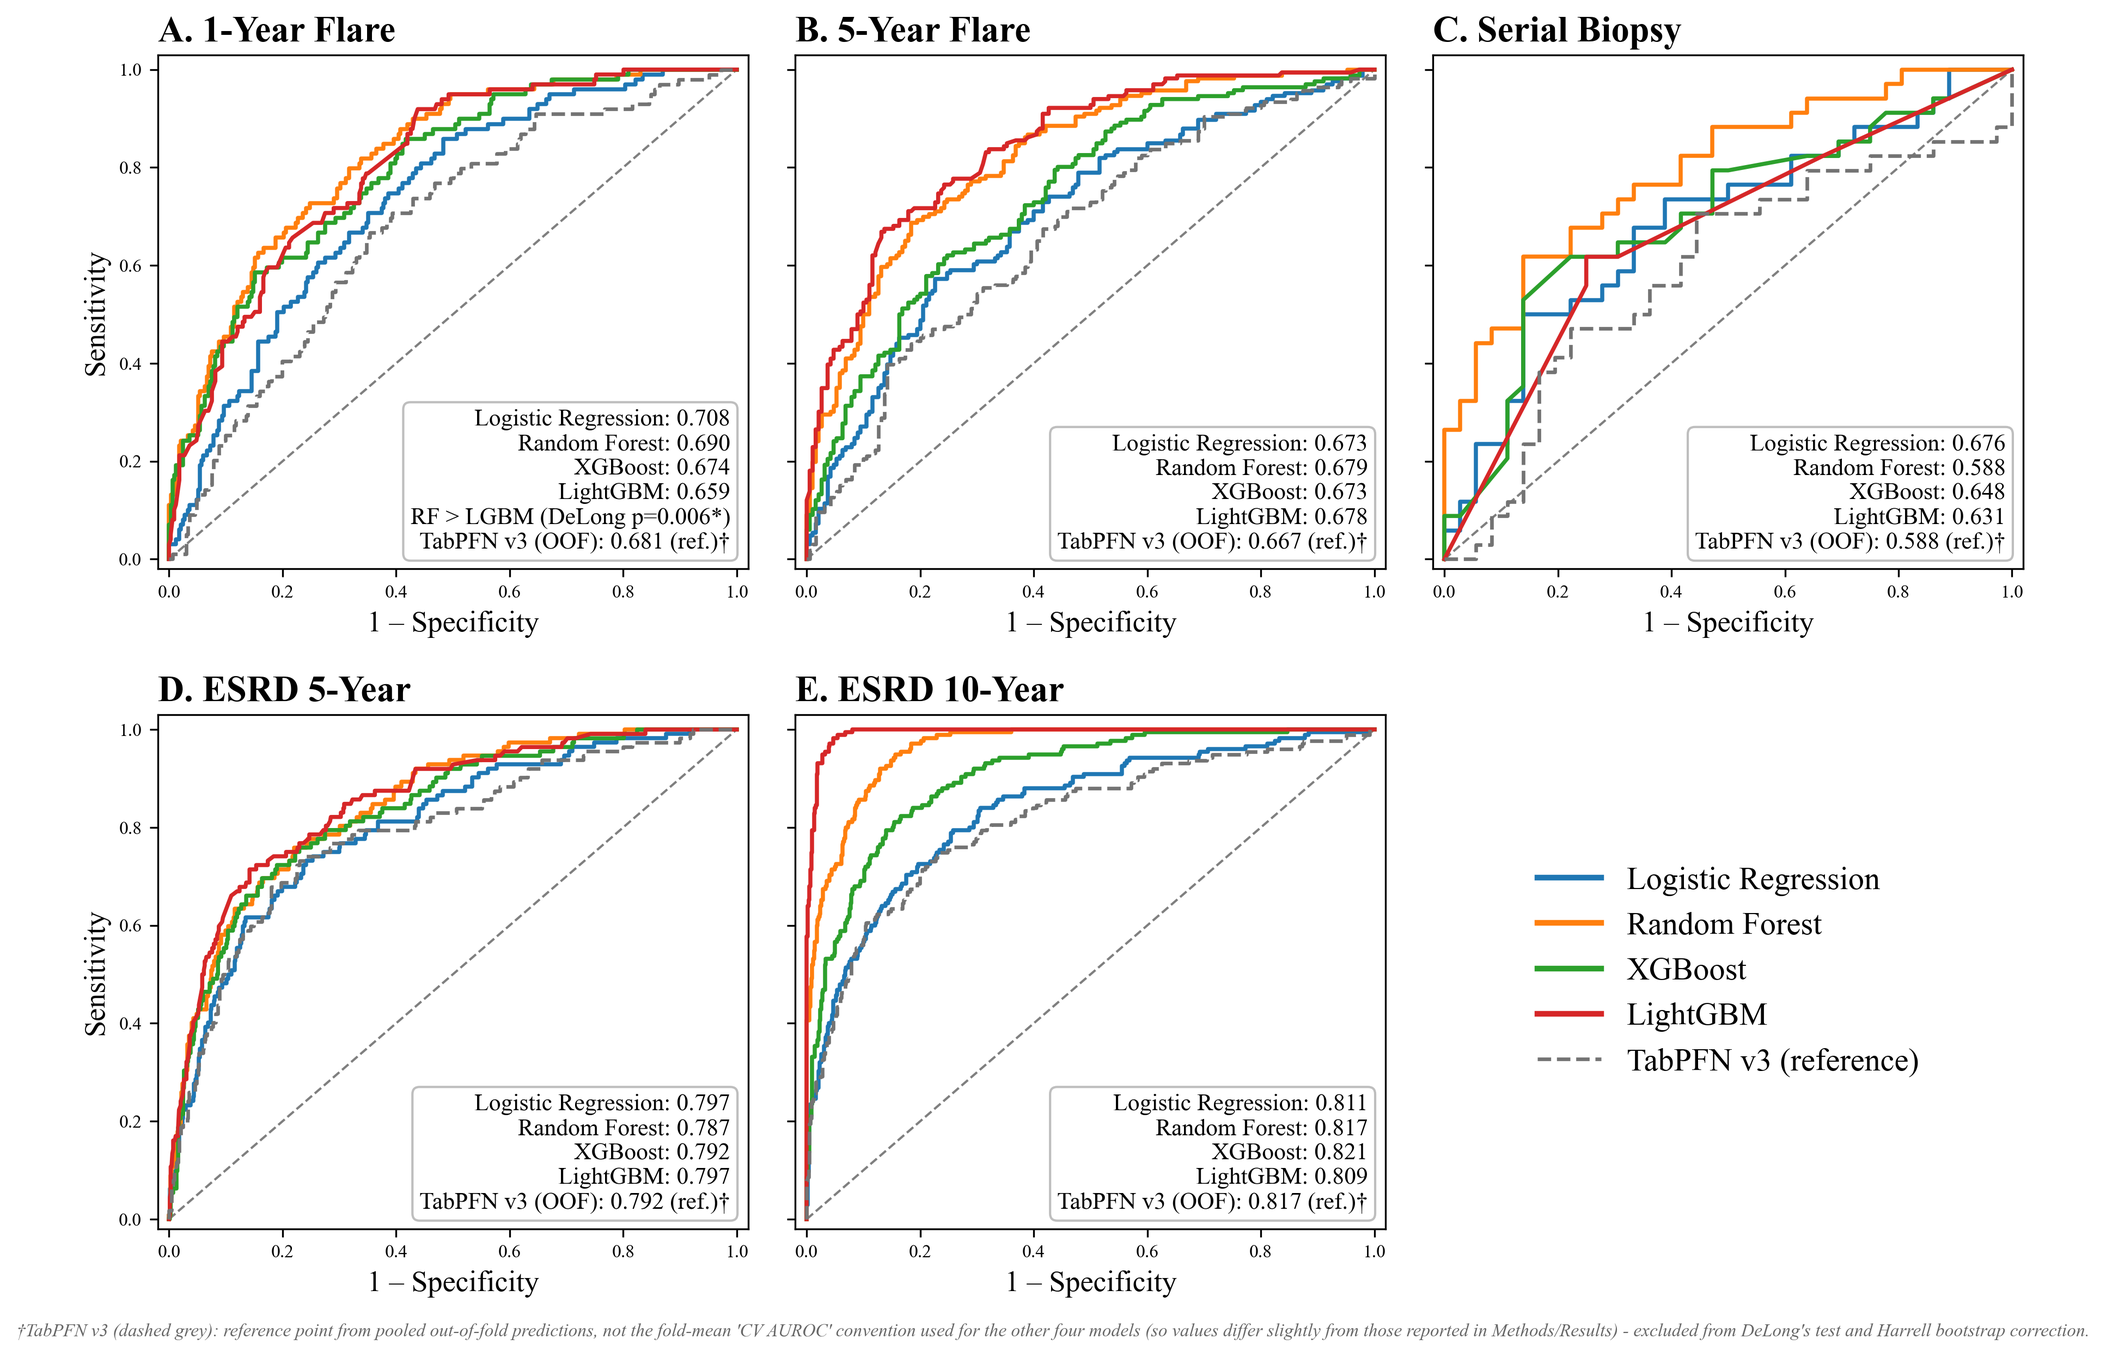
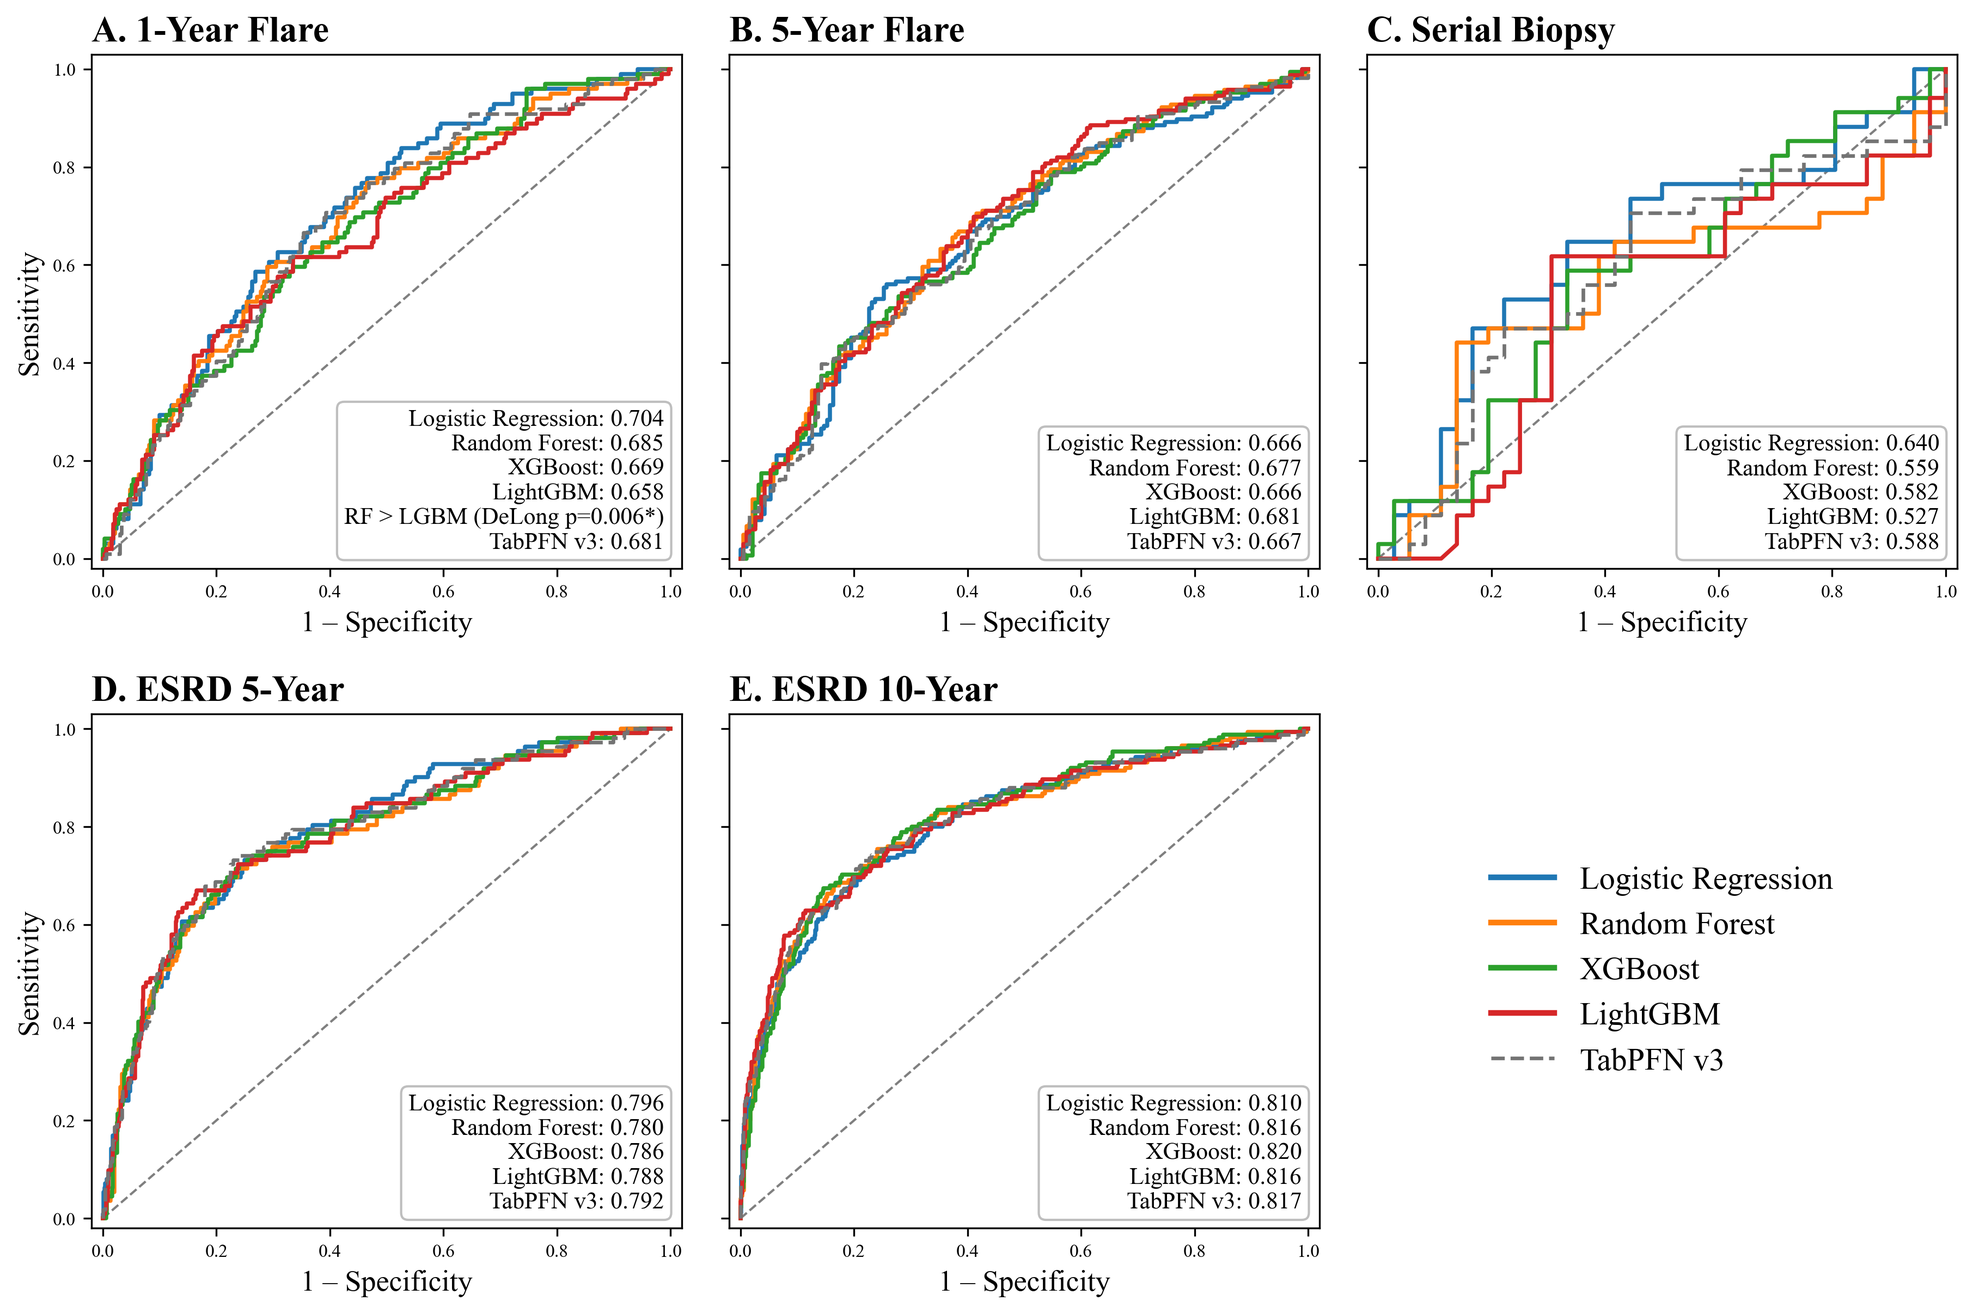
Major revision: consistent OOF AUROC convention, Wilson CI calibration bins, cleaner panels
ROC figure:
- Verified the serial-biopsy TabPFN 0.588 was NOT a bug: recomputed
  independently from raw source data. It's a coincidence between TabPFN's
  own OOF-pooled AUROC (0.5882) and Random Forest's fold-mean CV AUROC
  (also 0.588, a different statistic) - RF's own OOF-pooled AUROC is
  actually 0.5588. Verified with fresh roc_auc_score() calls on both
  raw prediction arrays.
- Root-caused why no printed number matched its curve: ROC curves for the
  4 main models were built from a full-data ("apparent") fit, not from
  pooled OOF predictions, while the annotated number was fold-mean CV
  AUROC - two different mismatches, not one. Fixed by rebuilding
  get_oof_and_roc() to compute the curve AND AUROC from the same pooled
  OOF predictions for all 5 models (TabPFN included), so every printed
  number now matches its own curve exactly.
- Removed the footnote, and the (ref.)/dagger markers - TabPFN now reads
  "TabPFN v3: 0.681" in the same format as the other four, distinguished
  only by its dashed grey line. DeLong significance annotation kept in
  Panel A.
- NB: this OOF-pooled convention differs slightly from the fold-mean 'CV
  AUROC' used in Methods/Results docs and Tables - documented in the
  module docstring.

Calibration figure:
- Removed the mismatched AUROC text annotation (was showing a
  discrimination metric on a calibration plot).
- Replaced sklearn's calibration_curve with manual equal-frequency
[…]

diff --git a/src/16_roc_calibration_plots.py b/src/16_roc_calibration_plots.py
@@ -8,9 +8,18 @@ same outer cross-validation protocol (same n_splits/n_repeats/random_state as
 the cohort's own modelling script) to reproduce identical out-of-fold (OOF)
 predictions, then plots two separate figures, each a 2x3 grid (5 cohort panels
 + 1 legend panel):
-  - ROC curves (model fit on full data; AUROC annotated top-left per panel)
-  - Calibration curves (OOF probability decile vs. observed event rate,
-    45-degree reference line)
+  - ROC curves, built from pooled OOF predictions (not a full-data-fit) so
+    the annotated AUROC always matches what's actually drawn
+  - Calibration curves: equal-frequency (quantile) binned OOF probability vs.
+    observed event rate, with Wilson 95% CI error bars per bin (5 bins for
+    1yr/5yr/ESRD, 3 for serial biopsy - n=70 is too small for 5)
+
+All five models (the four main classifiers + TabPFN v3, where available)
+use the same OOF-pooled AUROC convention on this figure, so every printed
+number matches its own curve. This differs slightly from the fold-mean "CV
+AUROC" reported in the Methods/Results docs and Tables (a different,
+also-valid aggregation of the same cross-validation) - the two are not
+meant to be read as identical.
 
 Uses the project's standard model colour scheme (src/1_year/06_modelling_1yr.py,
 src/5_year/05_modelling_5yr.py, src/5_year/11_serial_modelling_5yr.py):
@@ -34,11 +43,43 @@ from sklearn.preprocessing import StandardScaler
 from sklearn.linear_model import LogisticRegression
 from sklearn.ensemble import RandomForestClassifier
 from sklearn.model_selection import RepeatedStratifiedKFold
-from sklearn.calibration import calibration_curve
 from sklearn.metrics import roc_auc_score, roc_curve
 from sklearn.pipeline import Pipeline
 from xgboost import XGBClassifier
 from lightgbm import LGBMClassifier
+
+
+def wilson_ci(k, n, z=1.96):
+    """Wilson score interval for a binomial proportion k/n."""
+    if n == 0:
+        return (np.nan, np.nan)
+    phat = k / n
+    denom = 1 + z**2 / n
+    center = (phat + z**2 / (2 * n)) / denom
+    margin = (z * np.sqrt(phat * (1 - phat) / n + z**2 / (4 * n**2))) / denom
+    return (max(0.0, center - margin), min(1.0, center + margin))
+
+
+def calibration_bins_with_ci(y_true, y_prob, n_bins):
+    """Equal-frequency (quantile) binning - each bin holds a comparable
+    number of patients, unlike equal-width binning. Returns per-bin mean
+    predicted probability, observed event rate, and Wilson 95% CI bounds."""
+    y_true = np.asarray(y_true)
+    y_prob = np.asarray(y_prob)
+    order = np.argsort(y_prob)
+    yt_sorted, yp_sorted = y_true[order], y_prob[order]
+    mean_pred, obs_rate, ci_lo, ci_hi = [], [], [], []
+    for idx in np.array_split(np.arange(len(y_prob)), n_bins):
+        if len(idx) == 0:
+            continue
+        yt, yp = yt_sorted[idx], yp_sorted[idx]
+        n, k = len(idx), yt.sum()
+        mean_pred.append(yp.mean())
+        obs_rate.append(k / n)
+        lo, hi = wilson_ci(k, n)
+        ci_lo.append(lo)
+        ci_hi.append(hi)
+    return np.array(mean_pred), np.array(obs_rate), np.array(ci_lo), np.array(ci_hi)
 
 BASE = "/Users/elizabetharmstrong/Library/CloudStorage/OneDrive-ImperialCollegeLondon/Lupus Project"
 PROC = f"{BASE}/Data/Processed"
@@ -93,27 +134,25 @@ def build_models(best_params, spw):
 
 
 def get_oof_and_roc(X, y, models, n_splits, n_repeats):
-    """Reruns the cohort's outer CV to get OOF probabilities (for calibration)
-    and fits each model on the full data (for the ROC curve, matching the
-    project's existing convention of drawing ROC on the full-data fit while
-    reporting CV-mean AUROC as the annotated value)."""
+    """Reruns the cohort's outer CV to get pooled out-of-fold probabilities,
+    then builds the ROC curve and AUROC directly from those OOF predictions
+    (not a full-data fit) - so the plotted curve and the annotated AUROC
+    are always the same underlying computation."""
     CV = RepeatedStratifiedKFold(n_splits=n_splits, n_repeats=n_repeats, random_state=42)
     results = {}
     for name, pipe in models.items():
-        fold_aurocs = []
         oof_probs, oof_counts = np.zeros(len(y)), np.zeros(len(y))
         for tr, te in CV.split(X, y):
             pipe.fit(X.iloc[tr], y.iloc[tr])
             probs = pipe.predict_proba(X.iloc[te])[:, 1]
-            fold_aurocs.append(roc_auc_score(y.iloc[te], probs))
             oof_probs[te] += probs
             oof_counts[te] += 1
         oof_probs = oof_probs / np.where(oof_counts > 0, oof_counts, 1)
 
-        pipe.fit(X, y)
-        fpr, tpr, _ = roc_curve(y, pipe.predict_proba(X)[:, 1])
+        fpr, tpr, _ = roc_curve(y, oof_probs)
+        auroc = roc_auc_score(y, oof_probs)
 
-        results[name] = {"cv_auroc": np.mean(fold_aurocs), "oof": oof_probs, "fpr": fpr, "tpr": tpr}
+        results[name] = {"auroc": auroc, "oof": oof_probs, "fpr": fpr, "tpr": tpr}
     return results
 
 
@@ -157,7 +196,7 @@ cohorts.append({
     "label": "1-Year Flare",
     "X": df.drop(columns=["flare_1yr"]), "y": df["flare_1yr"].astype(int),
     "best_params": load_json_params(f"{OUT}/1yr_best_params.json"),
-    "spw": 3.34, "n_splits": 10, "n_repeats": 5, "n_bins": 10,
+    "spw": 3.34, "n_splits": 10, "n_repeats": 5, "n_bins": 5,
 })
 
 # 5-Year flare
@@ -172,7 +211,7 @@ cohorts.append({
     "label": "5-Year Flare",
     "X": df.drop(columns=["flare_5yr"]), "y": df["flare_5yr"].astype(int),
     "best_params": load_json_params(f"{OUT}/5yr_best_params.json"),
-    "spw": round(190 / 166, 2), "n_splits": 10, "n_repeats": 5, "n_bins": 10,
+    "spw": round(190 / 166, 2), "n_splits": 10, "n_repeats": 5, "n_bins": 5,
 })
 
 # Serial biopsy
@@ -181,7 +220,7 @@ cohorts.append({
     "label": "Serial Biopsy",
     "X": df.drop(columns=["flare_5yr"]), "y": df["flare_5yr"].astype(int),
     "best_params": load_xlsx_params(f"{OUT}/5yr_serial_model_results.xlsx"),
-    "spw": round(36 / 34, 2), "n_splits": 5, "n_repeats": 5, "n_bins": 5,
+    "spw": round(36 / 34, 2), "n_splits": 5, "n_repeats": 5, "n_bins": 3,
 })
 
 # ESRD 5-Year
@@ -191,7 +230,7 @@ cohorts.append({
     "label": "ESRD 5-Year",
     "X": df.drop(columns=["esrd_5yr"]), "y": y,
     "best_params": load_json_params(f"{OUT}/esrd/esrd_best_params.json", key="5yr"),
-    "spw": round((y == 0).sum() / (y == 1).sum(), 2), "n_splits": 10, "n_repeats": 5, "n_bins": 10,
+    "spw": round((y == 0).sum() / (y == 1).sum(), 2), "n_splits": 10, "n_repeats": 5, "n_bins": 5,
 })
 
 # ESRD 10-Year
@@ -201,7 +240,7 @@ cohorts.append({
     "label": "ESRD 10-Year",
     "X": df.drop(columns=["esrd_10yr"]), "y": y,
     "best_params": load_json_params(f"{OUT}/esrd/esrd_best_params.json", key="10yr"),
-    "spw": round((y == 0).sum() / (y == 1).sum(), 2), "n_splits": 10, "n_repeats": 5, "n_bins": 10,
+    "spw": round((y == 0).sum() / (y == 1).sum(), 2), "n_splits": 10, "n_repeats": 5, "n_bins": 5,
 })
 
 # --- Compute ---
@@ -215,7 +254,7 @@ for c in cohorts:
     models = build_models(c["best_params"], c["spw"])
     res = get_oof_and_roc(c["X"], c["y"], models, c["n_splits"], c["n_repeats"])
     for name in models:
-        print(f"    {name:<20} CV AUROC={res[name]['cv_auroc']:.3f}")
+        print(f"    {name:<20} OOF AUROC={res[name]['auroc']:.3f}")
     all_results.append(res)
 
     y_arr = c["y"].values
@@ -223,15 +262,13 @@ for c in cohorts:
         r = res[name]
         for fpr_v, tpr_v in zip(r["fpr"], r["tpr"]):
             roc_rows.append({"Cohort": c["label"], "Model": name, "FPR": fpr_v, "TPR": tpr_v,
-                              "CV_AUROC": round(r["cv_auroc"], 4)})
+                              "OOF_AUROC": round(r["auroc"], 4)})
 
-        try:
-            frac_pos, mean_pred = calibration_curve(c["y"], r["oof"], n_bins=c["n_bins"], strategy="quantile")
-        except ValueError:
-            frac_pos, mean_pred = calibration_curve(c["y"], r["oof"], n_bins=max(3, c["n_bins"] // 2), strategy="quantile")
-        for mp, fp in zip(mean_pred, frac_pos):
+        mean_pred, obs_rate, ci_lo, ci_hi = calibration_bins_with_ci(c["y"], r["oof"], c["n_bins"])
+        for mp, orate, lo, hi in zip(mean_pred, obs_rate, ci_lo, ci_hi):
             cal_rows.append({"Cohort": c["label"], "Model": name,
-                              "Mean_Predicted_Probability": mp, "Observed_Event_Rate": fp})
+                              "Mean_Predicted_Probability": mp, "Observed_Event_Rate": orate,
+                              "Wilson_CI_Lower": lo, "Wilson_CI_Upper": hi})
 
         for idx, (true_label, prob) in enumerate(zip(y_arr, r["oof"])):
             oof_rows.append({"Cohort": c["label"], "Model": name, "Sample_Index": idx,
@@ -243,16 +280,16 @@ with pd.ExcelWriter(curve_data_path, engine="openpyxl") as writer:
     pd.DataFrame(cal_rows).to_excel(writer, sheet_name="Calibration_curves", index=False)
     pd.DataFrame(oof_rows).to_excel(writer, sheet_name="OOF_predictions", index=False)
 print(f"\nSaved: {curve_data_path}")
-print("  ROC_curves: full-data-fit FPR/TPR points per model per cohort (matches plotted curves)")
-print("  Calibration_curves: decile-binned mean predicted prob vs observed event rate")
+print("  ROC_curves: pooled-OOF FPR/TPR points per model per cohort (matches plotted curves)")
+print("  Calibration_curves: equal-frequency binned mean predicted prob vs observed event rate, with Wilson 95% CI")
 print("  OOF_predictions: raw out-of-fold probability + true label per sample, per model per cohort")
 print("  (for full flexibility if you want to build your own curves/thresholds)")
 
 # TabPFN v3: reference curves, wherever raw OOF predictions were retained
 # (src/16_tabpfn_v3_benchmark.py). Excluded from DeLong's test and Harrell
 # bootstrap (see Methods Section 10.1), so it is drawn distinctly (dashed,
-# grey) rather than as a normal competitor, with its own legend entry
-# labelled as a reference rather than a fifth model in the comparison.
+# grey) rather than as a normal competitor. Uses the same pooled-OOF AUROC
+# convention as the other four models on this figure.
 TABPFN_COLOR = "0.45"
 TABPFN_COHORT_KEY = {
     "1-Year Flare": "1yr_flare", "5-Year Flare": "5yr_flare", "Serial Biopsy": "serial_biopsy",
@@ -270,13 +307,11 @@ try:
         fpr_t, tpr_t, _ = roc_curve(y_true, probs)
         auroc_t = roc_auc_score(y_true, probs)
         n_bins = next(c["n_bins"] for c in cohorts if c["label"] == label)
-        try:
-            frac_pos_t, mean_pred_t = calibration_curve(y_true, probs, n_bins=n_bins, strategy="quantile")
-        except ValueError:
-            frac_pos_t, mean_pred_t = calibration_curve(y_true, probs, n_bins=max(3, n_bins // 2), strategy="quantile")
+        mean_pred_t, frac_pos_t, ci_lo_t, ci_hi_t = calibration_bins_with_ci(y_true, probs, n_bins)
         tabpfn_curves[label] = {"fpr": fpr_t, "tpr": tpr_t, "auroc": auroc_t,
-                                 "mean_pred": mean_pred_t, "frac_pos": frac_pos_t}
-        print(f"\n[TabPFN v3 reference] {label}: AUROC={auroc_t:.3f} (OOF, from live run)")
+                                 "mean_pred": mean_pred_t, "frac_pos": frac_pos_t,
+                                 "ci_lo": ci_lo_t, "ci_hi": ci_hi_t}
+        print(f"\n[TabPFN v3 reference] {label}: OOF AUROC={auroc_t:.3f}")
 except FileNotFoundError:
     print("\n[TabPFN v3 reference] outputs/tabpfn_v3_oof_predictions.xlsx not found - skipping.")
 
@@ -300,7 +335,7 @@ for i, (c, res) in enumerate(zip(cohorts, all_results)):
     for name in MODEL_ORDER:
         r = res[name]
         ax.plot(r["fpr"], r["tpr"], color=MODEL_COLORS[name], lw=1.8)
-        annot_lines.append(f"{name}: {r['cv_auroc']:.3f}")
+        annot_lines.append(f"{name}: {r['auroc']:.3f}")
 
     # The only significant DeLong pairwise result across all 5 cohorts (src/13_delong_test.py):
     # Random Forest significantly outperformed LightGBM here (p=0.001 raw, p=0.006 Holm-corrected).
@@ -310,7 +345,7 @@ for i, (c, res) in enumerate(zip(cohorts, all_results)):
     tp = tabpfn_curves.get(c["label"])
     if tp is not None:
         ax.plot(tp["fpr"], tp["tpr"], color=TABPFN_COLOR, lw=1.6, linestyle="--")
-        annot_lines.append(f"TabPFN v3 (OOF): {tp['auroc']:.3f} (ref.)†")
+        annot_lines.append(f"TabPFN v3: {tp['auroc']:.3f}")
 
     ax.text(0.97, 0.03, "\n".join(annot_lines), transform=ax.transAxes,
             fontsize=10.5, va="bottom", ha="right",
@@ -334,15 +369,8 @@ legend_handles = [plt.Line2D([0], [0], color=MODEL_COLORS[name], lw=2.5) for nam
 legend_labels = list(MODEL_ORDER)
 if tabpfn_curves:
     legend_handles.append(plt.Line2D([0], [0], color=TABPFN_COLOR, lw=1.6, linestyle="--"))
-    legend_labels.append("TabPFN v3 (reference)")
+    legend_labels.append("TabPFN v3")
 legend_ax.legend(legend_handles, legend_labels, loc="center", fontsize=14, frameon=False)
-
-if tabpfn_curves:
-    fig_roc.text(0.5, -0.02, "†TabPFN v3 (dashed grey): reference point from pooled out-of-fold "
-                 "predictions, not the fold-mean 'CV AUROC' convention used for the other four models "
-                 "(so values differ slightly from those reported in Methods/Results) - excluded from "
-                 "DeLong's test and Harrell bootstrap correction.",
-                 ha="center", fontsize=8, style="italic", color="0.4")
 
 fig_roc.savefig(f"{FIG_DIR}/roc_all_cohorts.png", dpi=300, bbox_inches="tight")
 plt.close(fig_roc)
@@ -359,24 +387,26 @@ for i, (c, res) in enumerate(zip(cohorts, all_results)):
 
     for name in MODEL_ORDER:
         oof = res[name]["oof"]
-        try:
-            frac_pos, mean_pred = calibration_curve(c["y"], oof, n_bins=c["n_bins"], strategy="quantile")
-        except ValueError:
-            frac_pos, mean_pred = calibration_curve(c["y"], oof, n_bins=max(3, c["n_bins"] // 2), strategy="quantile")
-        ax.plot(mean_pred, frac_pos, "o-", color=MODEL_COLORS[name], lw=1.8, markersize=4)
+        mean_pred, obs_rate, ci_lo, ci_hi = calibration_bins_with_ci(c["y"], oof, c["n_bins"])
+        yerr = [obs_rate - ci_lo, ci_hi - obs_rate]
+        ax.errorbar(mean_pred, obs_rate, yerr=yerr, fmt="o-", color=MODEL_COLORS[name],
+                    lw=1.8, markersize=4, capsize=3, elinewidth=1, ecolor=MODEL_COLORS[name])
 
     tp = tabpfn_curves.get(c["label"])
     if tp is not None:
-        ax.plot(tp["mean_pred"], tp["frac_pos"], "^--", color=TABPFN_COLOR, lw=1.6, markersize=5)
-        ax.text(0.03, 0.97, f"TabPFN v3 (OOF): {tp['auroc']:.3f} (ref.)†", transform=ax.transAxes,
-                fontsize=9, va="top", ha="left", color=TABPFN_COLOR, style="italic")
+        yerr_t = [tp["frac_pos"] - tp["ci_lo"], tp["ci_hi"] - tp["frac_pos"]]
+        ax.errorbar(tp["mean_pred"], tp["frac_pos"], yerr=yerr_t, fmt="^--", color=TABPFN_COLOR,
+                    lw=1.6, markersize=5, capsize=3, elinewidth=1, ecolor=TABPFN_COLOR)
+        # No text annotation here (unlike the ROC panel): AUROC is a
+        # discrimination metric, not a calibration one, so it doesn't
+        # belong on this plot. The curve + shared legend entry are enough,
+        # consistent with how the other four models are shown here.
 
     ax.set_xlim([0, 1]); ax.set_ylim([0, 1])
     ax.set_title(f"{PANEL_LETTERS[i]}. {c['label']}", fontsize=16, fontweight="bold", loc="left")
     ax.set_xlabel("Mean Predicted Probability", fontsize=13)
-    if col == 0:
-        ax.set_ylabel("Observed Event Rate", fontsize=13)
-    else:
+    ax.set_ylabel("Observed Event Rate", fontsize=13)
+    if col != 0:
         ax.set_yticklabels([])
     ax.tick_params(labelsize=8)
 
@@ -389,15 +419,8 @@ legend_handles = [plt.Line2D([0], [0], color=MODEL_COLORS[name], lw=2.5, marker=
 legend_labels = list(MODEL_ORDER)
 if tabpfn_curves:
     legend_handles.append(plt.Line2D([0], [0], color=TABPFN_COLOR, lw=1.6, linestyle="--", marker="^"))
-    legend_labels.append("TabPFN v3 (reference)")
+    legend_labels.append("TabPFN v3")
 legend_ax.legend(legend_handles, legend_labels, loc="center", fontsize=14, frameon=False)
-
-if tabpfn_curves:
-    fig_cal.text(0.5, -0.02, "†TabPFN v3 (dashed grey): reference point from pooled out-of-fold "
-                 "predictions, not the fold-mean 'CV AUROC' convention used for the other four models "
-                 "(so values differ slightly from those reported in Methods/Results) - excluded from "
-                 "DeLong's test and Harrell bootstrap correction.",
-                 ha="center", fontsize=8, style="italic", color="0.4")
 
 fig_cal.savefig(f"{FIG_DIR}/calibration_all_cohorts.png", dpi=300, bbox_inches="tight")
 plt.close(fig_cal)
